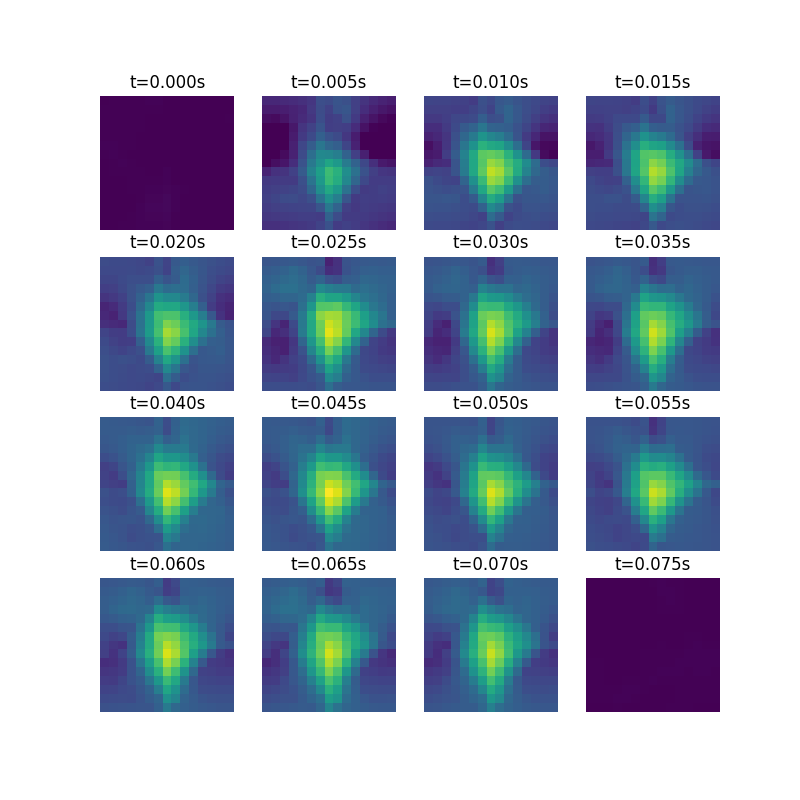
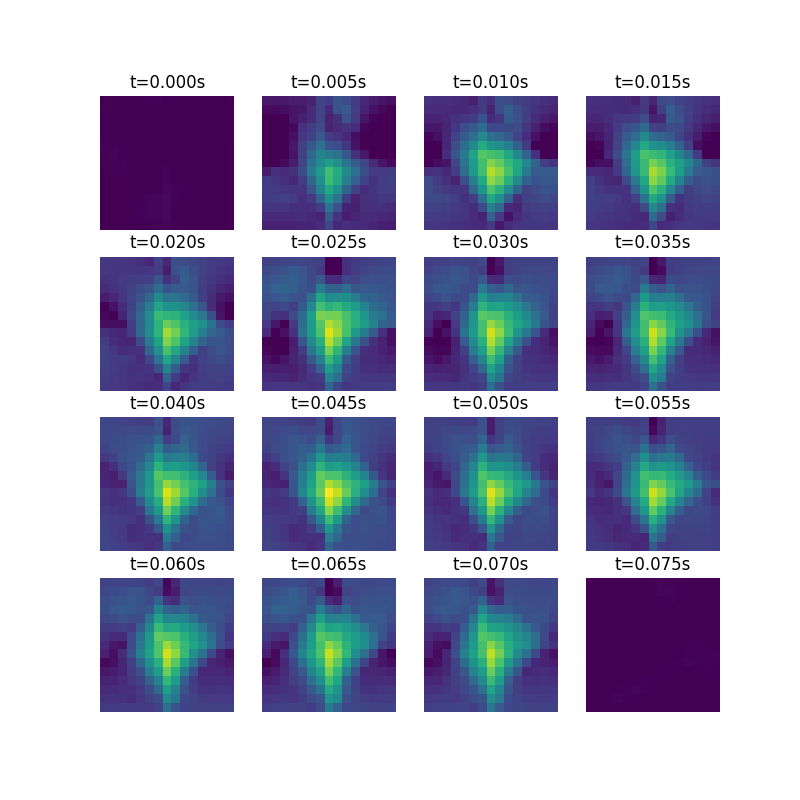
updated reconstructions.py

diff --git a/reconstructions.py b/reconstructions.py
@@ -50,7 +50,7 @@ PtP = np.dot(Pt, P)
 DtDh = np.dot(np.transpose(Dh), Dh)
 DtDv = np.dot(np.transpose(Dv), Dv)
 
-alpha = 1e3
+alpha = 1e2
 
 inv = np.linalg.inv(PtP + alpha*(DtDh + DtDv))
 
